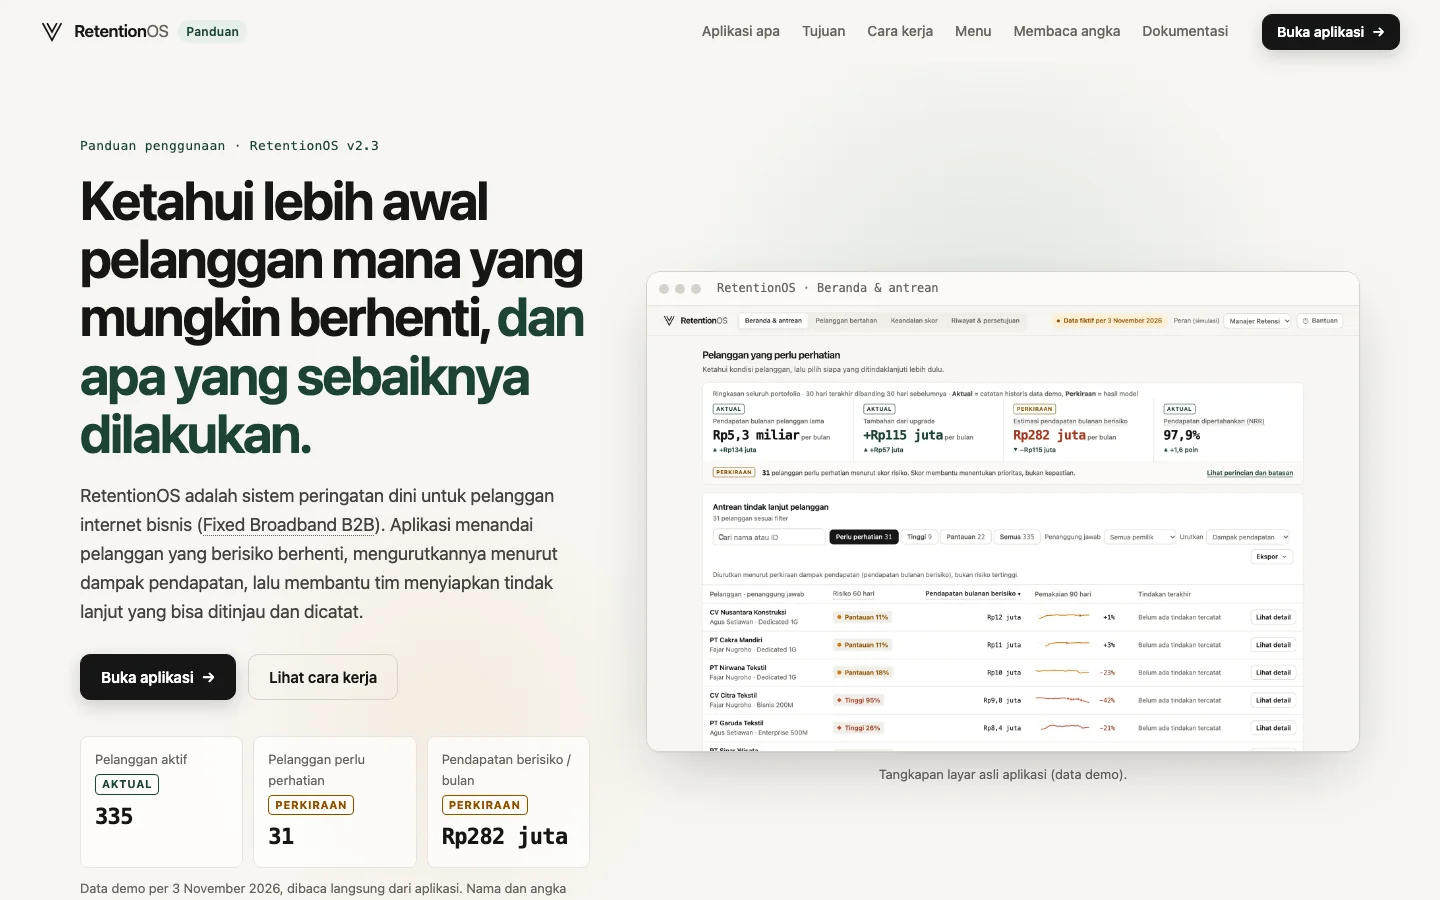
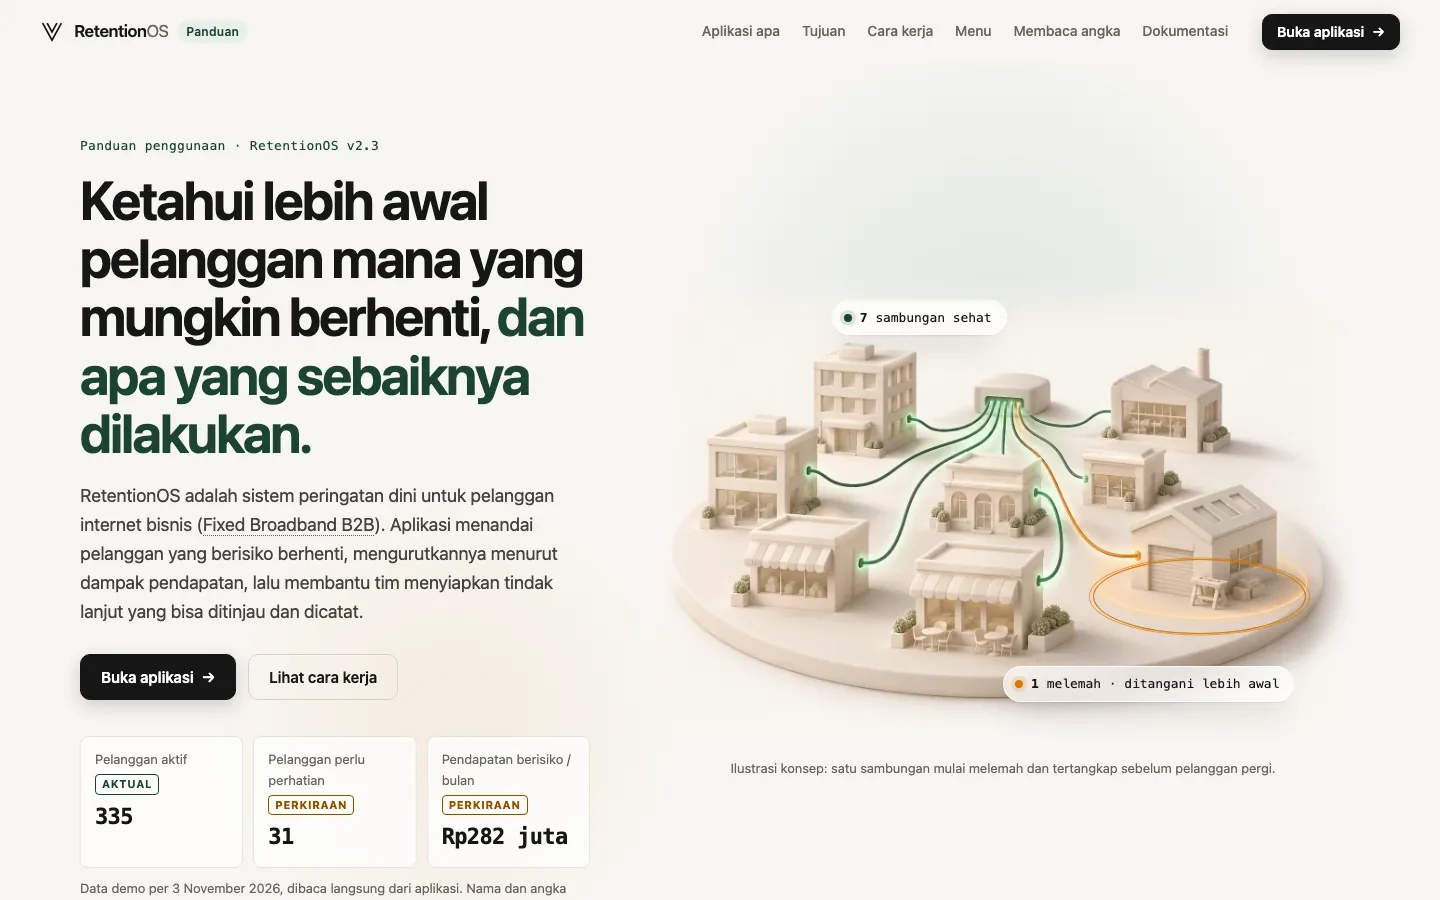
Refresh RetentionOS and Vera covers with their new hero illustrations
Both landing pages now open with a concept illustration instead of the app UI,
so the project covers, alt text and captions are updated to match.

Changed region(s): [[0.4688, 0.3111, 0.9375, 0.8711], [0.9062, 0.3422, 0.9375, 0.3733]]

diff --git a/index.html b/index.html
@@ -132,14 +132,14 @@
           </article>
           <article class="project-card reveal" data-project="retentionos">
             <button class="project-open" type="button" data-open="retentionos" data-cursor="View" aria-label="View RetentionOS, churn early warning prototype">
-              <span class="project-art"><img class="project-image" src="assets/projects/retentionos.webp" width="1600" height="1000" alt="RetentionOS guide page: know earlier which customers may leave, with live demo figures and an app screenshot" loading="lazy" decoding="async"><span class="project-handoff" aria-hidden="true"><img src="assets/pixel-guide.svg" width="40" height="56" alt=""><span>60-day risk radar</span></span><span class="project-open-label" aria-hidden="true">View project ↗</span></span>
+              <span class="project-art"><img class="project-image" src="assets/projects/retentionos.webp" width="1600" height="1000" alt="RetentionOS guide page: know earlier which customers may leave, beside an illustration of one weakening connection caught early" loading="lazy" decoding="async"><span class="project-handoff" aria-hidden="true"><img src="assets/pixel-guide.svg" width="40" height="56" alt=""><span>60-day risk radar</span></span><span class="project-open-label" aria-hidden="true">View project ↗</span></span>
               <span class="project-caption"><span><strong>RetentionOS</strong><span class="project-discipline">Churn early warning</span></span><span class="project-number">Prototype / 02</span></span>
             </button>
             <a class="case-entry" href="case-retentionos.html">Read the RetentionOS case study <span aria-hidden="true">↗</span></a>
           </article>
           <article class="project-card reveal" data-project="vera">
             <button class="project-open" type="button" data-open="vera" data-cursor="View" aria-label="View Vera, invoice reconciliation prototype">
-              <span class="project-art"><img class="project-image" src="assets/projects/vera.webp" width="1600" height="1000" alt="Vera landing page: verify invoices with clear evidence, beside a preview of the decision workspace" loading="lazy" decoding="async"><span class="project-handoff" aria-hidden="true"><img src="assets/pixel-guide.svg" width="40" height="56" alt=""><span>Three-way match</span></span><span class="project-open-label" aria-hidden="true">View project ↗</span></span>
+              <span class="project-art"><img class="project-image" src="assets/projects/vera.webp" width="1600" height="1000" alt="Vera landing page: verify invoices with clear evidence, beside three stacked documents with a flagged row and a green approval seal" loading="lazy" decoding="async"><span class="project-handoff" aria-hidden="true"><img src="assets/pixel-guide.svg" width="40" height="56" alt=""><span>Three-way match</span></span><span class="project-open-label" aria-hidden="true">View project ↗</span></span>
               <span class="project-caption"><span><strong>Vera</strong><span class="project-discipline">Invoice reconciliation</span></span><span class="project-number">Prototype / 03</span></span>
             </button>
             <a class="case-entry" href="case-vera.html">Read the Vera case study <span aria-hidden="true">↗</span></a>

diff --git a/case-retentionos.html b/case-retentionos.html
@@ -29,8 +29,8 @@
       <dl class="case-facts"><div><dt>Role</dt><dd>Solo — product spec, gap analysis, model, backend, UI</dd></div><div><dt>Stack</dt><dd>Python with no dependencies, logistic regression, exact Shapley values</dd></div><div><dt>Timeline</dt><dd>November 2026</dd></div><div><dt>Status</dt><dd>Prototype · 85 automated tests</dd></div></dl>
     </section>
     <figure class="case-image page-width">
-      <div class="case-image-wrap"><img src="assets/projects/retentionos.webp" width="1600" height="1000" alt="RetentionOS guide page: a headline about knowing early which customers may leave, live demo figures, and a screenshot of the app" decoding="async" fetchpriority="high"></div>
-      <figcaption><span>Guide page — the headline reads “Know earlier which customers may leave, and what to do about it.” Figures are synthetic.</span><span data-case-position>02 / 04</span></figcaption>
+      <div class="case-image-wrap"><img src="assets/projects/retentionos.webp" width="1600" height="1000" alt="RetentionOS guide page: the headline about knowing early which customers may leave, live demo figures, and an illustration of business buildings linked by green fiber cables, with one warehouse cable turning amber inside a warning ring" decoding="async" fetchpriority="high"></div>
+      <figcaption><span>Guide page — “Know earlier which customers may leave, and what to do about it.” The illustration shows one weakening connection caught before the customer leaves. Figures are synthetic.</span><span data-case-position>02 / 04</span></figcaption>
     </figure>
     <section class="case-story page-width" aria-labelledby="problemTitle"><span class="case-section-label">01 / THE PROBLEM</span><div>
       <h2 id="problemTitle">A retention spec that could not survive its own numbers.</h2>

diff --git a/case-vera.html b/case-vera.html
@@ -29,8 +29,8 @@
       <dl class="case-facts"><div><dt>Role</dt><dd>Spec review, frontend build, QA</dd></div><div><dt>Stack</dt><dd>HTML, CSS, JavaScript, IndexedDB, service worker</dd></div><div><dt>Timeline</dt><dd>November 2026</dd></div><div><dt>Status</dt><dd>Frontend demo · 13 domain tests</dd></div></dl>
     </section>
     <figure class="case-image page-width">
-      <div class="case-image-wrap"><img src="assets/projects/vera.webp" width="1600" height="1000" alt="Vera landing page: the headline “Verifikasi tagihan, dengan bukti yang jelas.” beside a preview of the decision workspace" decoding="async" fetchpriority="high"></div>
-      <figcaption><span>Landing page — “Verifikasi tagihan, dengan bukti yang jelas.” means “Verify invoices, with clear evidence.”</span><span data-case-position>03 / 04</span></figcaption>
+      <div class="case-image-wrap"><img src="assets/projects/vera.webp" width="1600" height="1000" alt="Vera landing page: the headline “Verifikasi tagihan, dengan bukti yang jelas.” beside an illustration of a PO, delivery note and invoice, one mismatched row circled in amber and a green approval seal" decoding="async" fetchpriority="high"></div>
+      <figcaption><span>Landing page — “Verifikasi tagihan, dengan bukti yang jelas.” means “Verify invoices, with clear evidence.” The live page scans the table, flags the mismatch, then stamps the approval.</span><span data-case-position>03 / 04</span></figcaption>
     </figure>
     <section class="case-story page-width" aria-labelledby="problemTitle"><span class="case-section-label">01 / THE PROBLEM</span><div>
       <h2 id="problemTitle">Three documents, arriving on different days.</h2>
